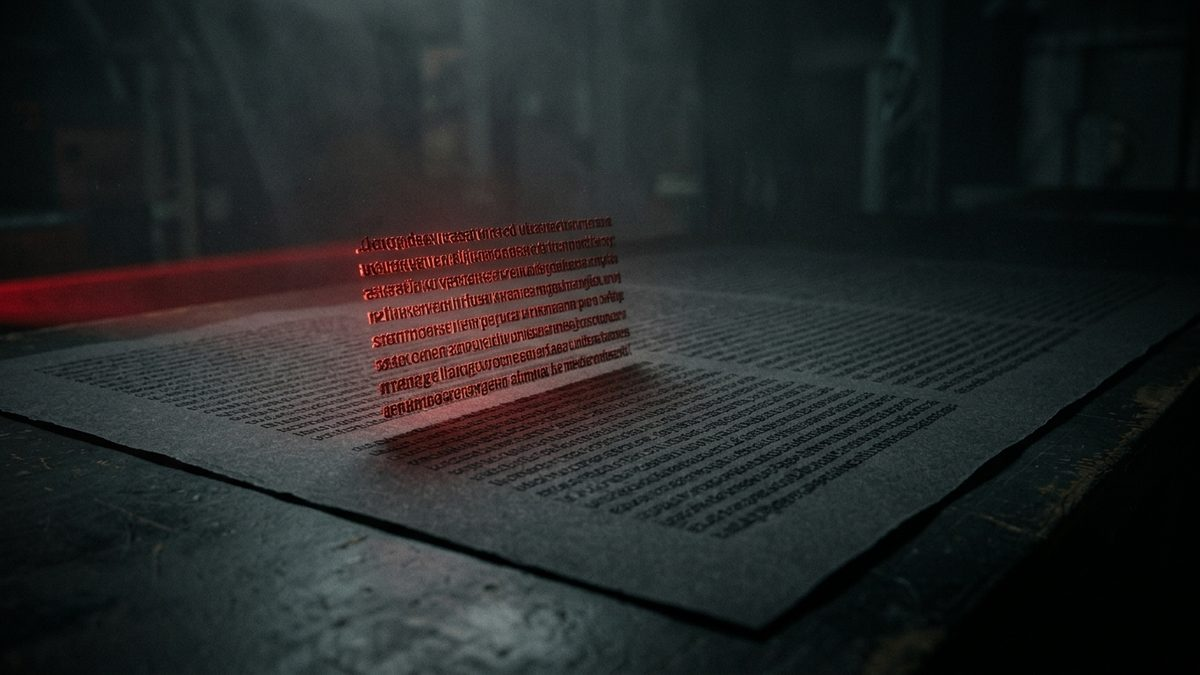
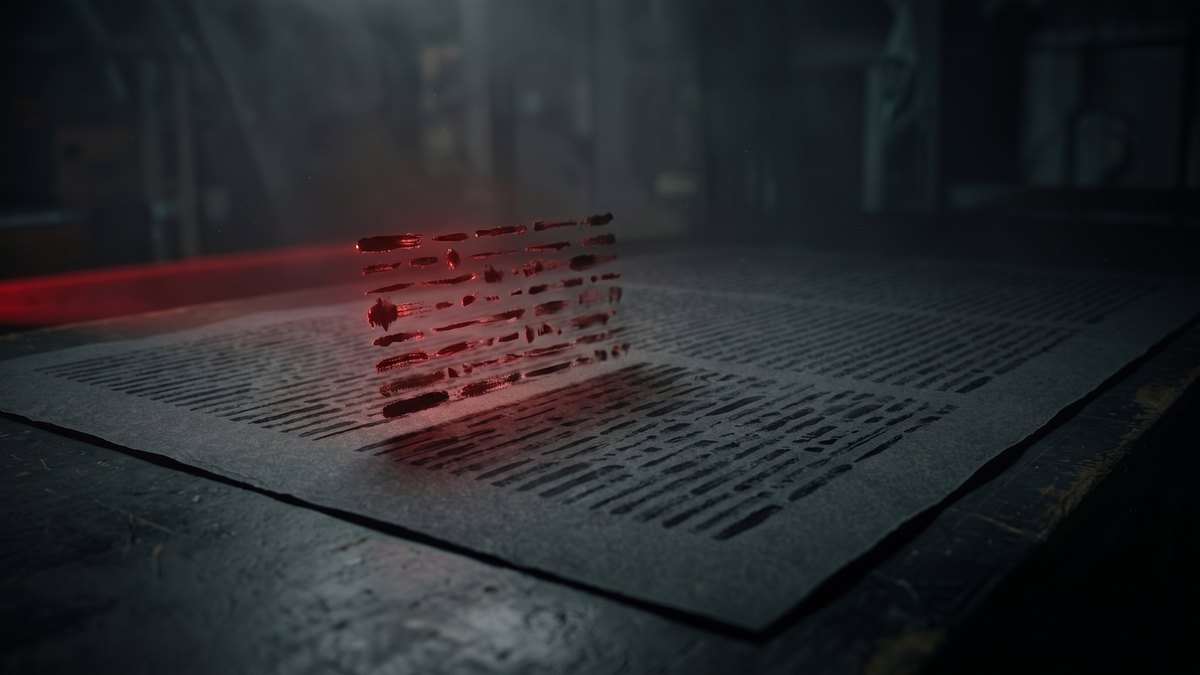
fix(landing): bring the seven remaining card images into the direction
Four were regrades. keryx was the only light tile left in a Hardware row that
had gone dark, and the only file over the weight limit; a gamma-and-saturation
grade with a soft vignette drops it from 49.6% to 22.4% mean luma and 208 KB to
138 KB while keeping the composition, which was the best in the set. triki,
flopcoin and korovany were graded the same way - triki's grey cap and flopcoin's
magenta both needed the background pushed under the subject rather than the
whole frame dimmed, so both carry a vignette centred on the object plus a single
warm accent.

korovany could not be fixed by grading alone: the HUD was burned into the frame.
Re-shooting it headless was tried and abandoned - the world does not stream in
under software GL, so the capture comes back as an empty field. The frame is
instead cropped to the HUD-free region around the watchtower, which is the only
part of the capture that carries a subject, then graded to dusk.

soulgrep kept its idea and lost its letterforms: the old frame resolved into
garbled pseudo-words at hero size, so it was regenerated from itself with the
text replaced by abstract ink strokes, the treatment ksef-docs already uses. otp
had no dark theme to shoot, so it is new generated art - a countdown ring with
six bars of glow standing in for a code.

paperclip was stale, still showing a bright marketing hero with burned-in copy
that the site has since replaced. It is re-sourced from the product itself: the
[…]

diff --git a/scripts/check-card-images.py b/scripts/check-card-images.py
@@ -26,13 +26,7 @@ WEIGHT_MAX_KB = 150
 # be run over the whole directory.
 KNOWN = {
     "flopbut-pl.jpg": "a real face, kept on purpose",
-    "keryx.jpg": "awaiting regrade",
-    "triki.jpg": "awaiting regrade",
-    "flopcoin.jpg": "awaiting regrade",
-    "korovany.jpg": "awaiting regrade",
     "ambassy.jpg": "awaiting a dark diagram at source",
-    "paperclip.jpg": "awaiting re-source",
-    "otp.jpg": "awaiting replacement",
 }
 
 
